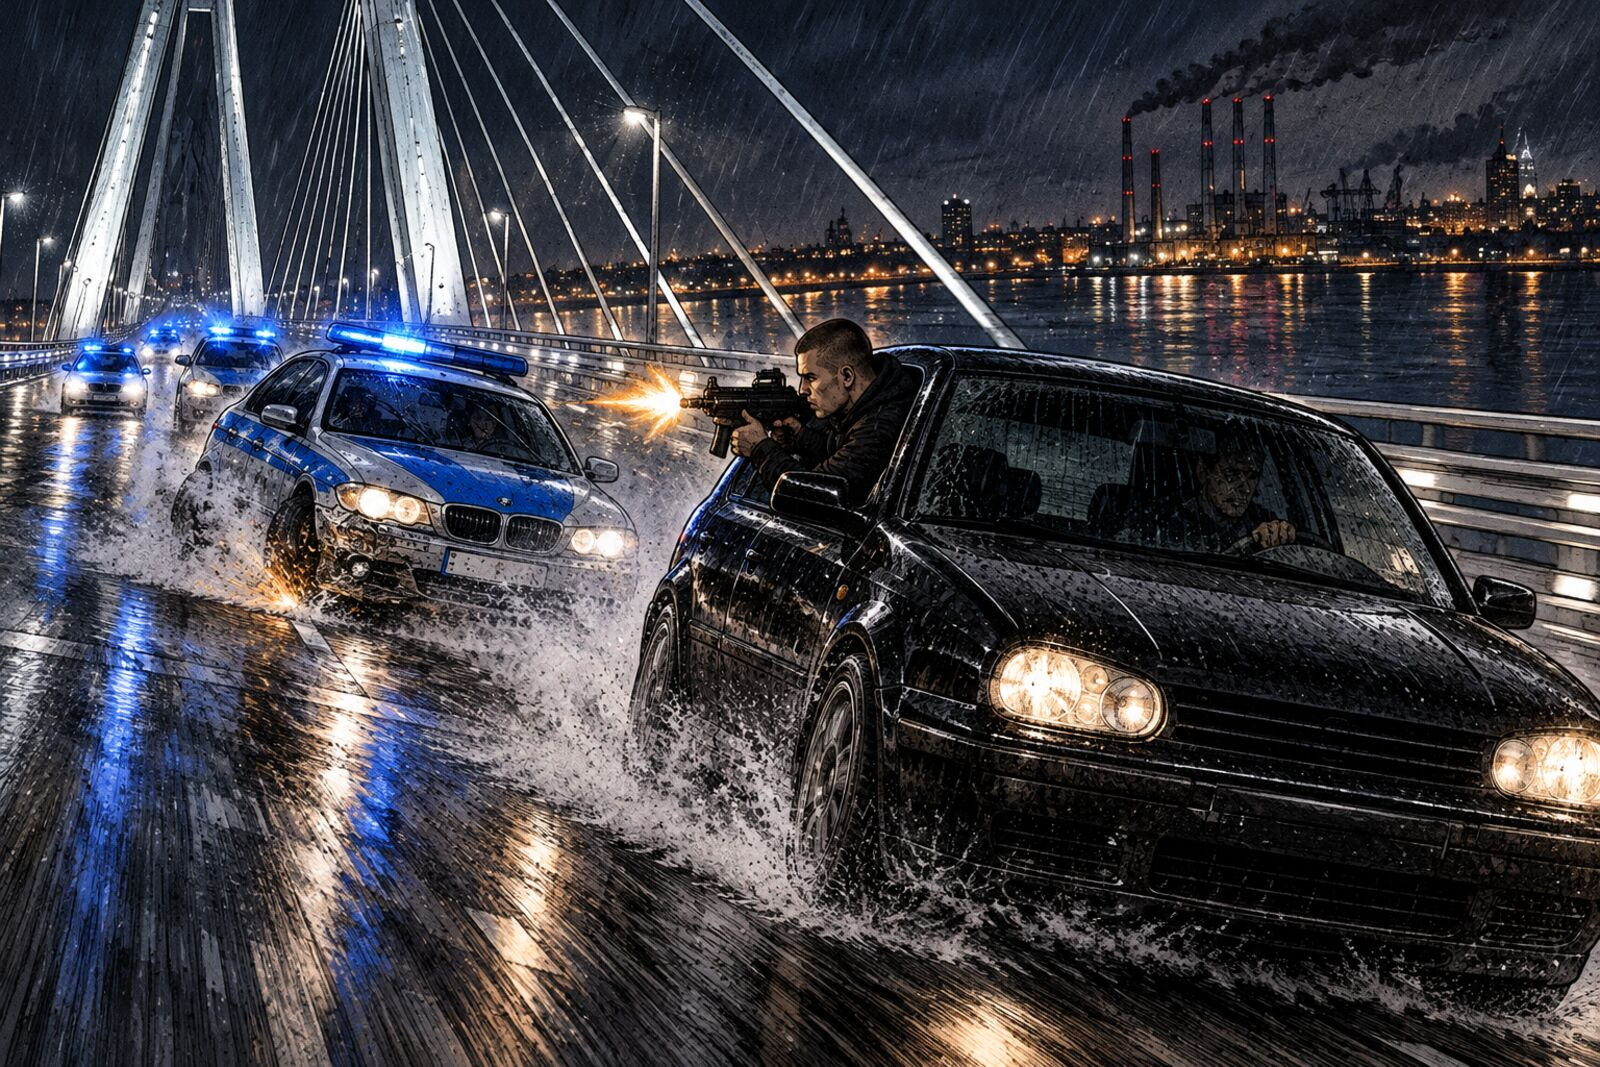
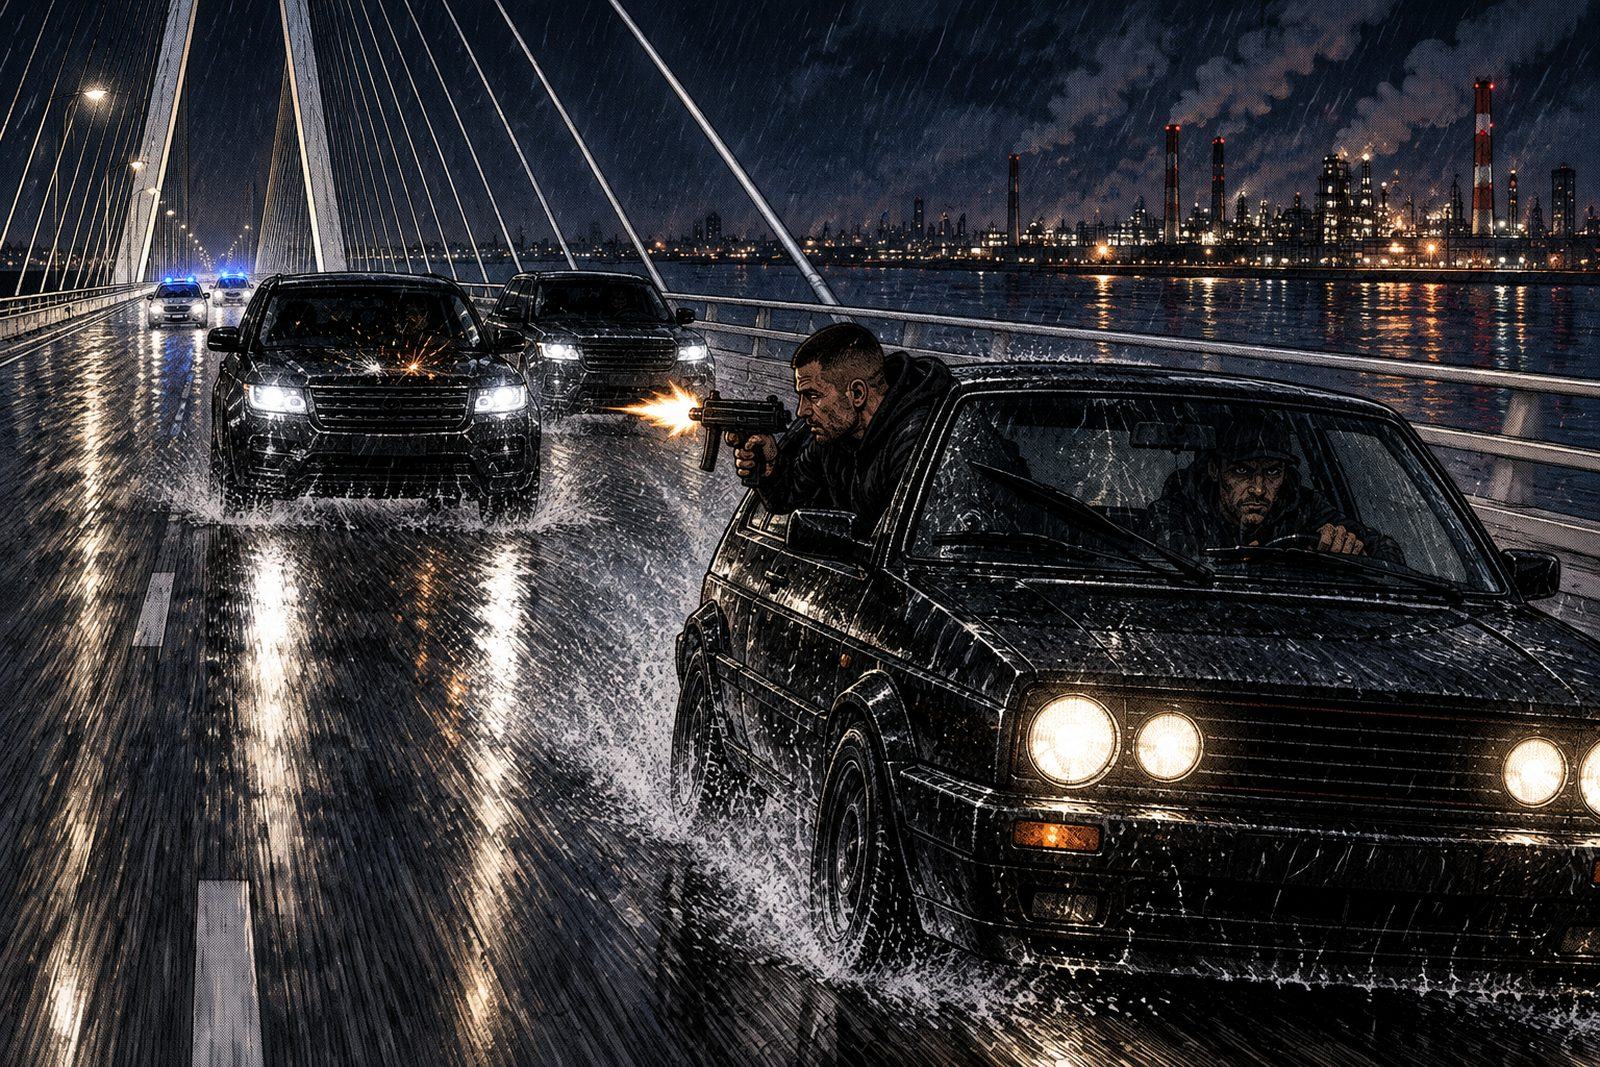
Redrawn bridge panel (shooting at gang SUVs, police far behind), drop one boss quip, art cache bust
Claude-Session: https://claude.ai/code/session_01Tt18V6mhpxc2nVgtq6weTV

diff --git a/public/index.html b/public/index.html
@@ -994,7 +994,7 @@ function pmove(p,dx,dy){const nx=p.x+dx,ny=p.y+dy,r=8;if(!p.down&&carAt(nx,ny,4)
 function say(p,arr,t){p.say=pick(arr);p.sayL=t||2.2}
 const QUIPS={shoot:['Ta-ta-ta, a je to!','Kulky zdarma, bereš?','Hele, mířím, nebo ne?','To je za tu předjížďku!','Pozdravuj pojišťovnu!','Mám ještě plnej zásobník!','Blinkr nepoužíváš, tak máš!','Ty vole, uhni!'],
  boom:['Ty vole, natočils to?','Bum! A je po káře.','To už nespravíš, kámo.','Šrotiště volá!','Pojišťovna brečí.','Grilovačka v Ústí!','Ještě že to nebyla moje.','Krásně to hoří, ne?','Tak to už STK neprojde.','Kdo to bude uklízet?'],
- boss:['A je po šéfovi!','Tak co, kdo je tu boss?','Obrněnej, ale blbej.','Tohle bude v novinách!']};
+ boss:['A je po šéfovi!','Tak co, kdo je tu boss?','Tohle bude v novinách!']};
 let quipCD=0;function quip(w,k){const p=w&&w.player;if(!p||quipCD>performance.now())return;quipCD=performance.now()+(k==='shoot'?7000:2600);p.say=pick(QUIPS[k]);p.sayL=2.4}
 
 /* ---- particles ---- */
@@ -1331,7 +1331,7 @@ function ambientWorld(){const w=newWorld({rain:true,dark:.74,civMax:10,pedMax:32
 
 /* ---------------- PROMO ---------------- */
 const ART=['keyart','street','heist','bridge','racestart','lucie','marek','kaja'];
-const artImg={};function preloadArt(){for(const k of ART){if(artImg[k])continue;const im=new Image();im.src='art/'+k+'.jpg';artImg[k]=im}}
+const artImg={};function preloadArt(){for(const k of ART){if(artImg[k])continue;const im=new Image();im.src='art/'+k+'.jpg?v=5';artImg[k]=im}}
 const PROMO=[
  {t:0,d:4.6,game:'street',txt:['ZORYX studio','uvádí']},
  {t:4.6,d:5.2,img:'keyart',kb:'in',txt:['Ústí nad Labem','Město andělů'],fx:'thunder'},
@@ -1353,7 +1353,7 @@ function cineCut(){const f=$('flash');f.classList.remove('go');void f.offsetWidt
 function setTxt(a,b){const el=$('promoTxt');el.innerHTML=a||b?`<div class="small">${a||''}</div><div>${b||''}</div>`:'';setTimeout(()=>el.children[0]&&el.children[0].classList.add('on'),250);setTimeout(()=>el.children[1]&&el.children[1].classList.add('on'),1000)}
 function promoShot(i){const w=promo.w,s=PROMO[i];cineCut();
   const A=$('ciA'),B=$('ciB'),card=$('card'),tc=$('titlecard');card.className='';card.innerHTML='';tc.classList.remove('on');
-  if(s.img){const cur=ciFlip?A:B,old=ciFlip?B:A;ciFlip^=1;cur.className='ci';cur.style.backgroundImage=`url(art/${s.img}.jpg)`;void cur.offsetWidth;cur.className='ci on kb-'+(s.kb||'in');old.classList.remove('on')}
+  if(s.img){const cur=ciFlip?A:B,old=ciFlip?B:A;ciFlip^=1;cur.className='ci';cur.style.backgroundImage=`url(art/${s.img}.jpg?v=5)`;void cur.offsetWidth;cur.className='ci on kb-'+(s.kb||'in');old.classList.remove('on')}
   else{A.classList.remove('on');B.classList.remove('on')}
   if(s.card){card.className='on '+s.side;card.innerHTML=`<div class="slab" style="background:${s.col}"></div><div class="pic" style="background-image:url(art/${s.card}.jpg)"></div><div class="nm"><b>${s.name}</b><i>${s.role}</i></div>`;setTxt('','');Snd.hit()}
   else if(s.title){A.className='ci on kb-in';A.style.backgroundImage='url(art/keyart.jpg)';B.classList.remove('on');tc.classList.add('on');setTxt('','')}
@@ -1485,7 +1485,7 @@ function comicScene(name){
   {const dy=(name==='plaza'||name==='plaza2'?21:19)*8*T;sc.y+=dy;for(const o of w.cars)o.y+=dy;for(const o of w.peds)o.y+=dy;for(const o of w.parts)o.y+=dy;for(const k of w.skids){k[1]+=dy;k[3]+=dy}}
   return{w,sc}}
 function renderPanel(){const el=$('scr-comic'),C=comic.C,P=C.panels[comic.i];
-  let h=`<div class="tag" style="margin-bottom:8px">${C.title}</div><div class="panel" id="panel">${P.art?`<div class="art" style="background-image:url(art/${P.art}.jpg?v=4)"></div>`:'<canvas id="pcv"></canvas>'}<div class="halftone"></div>`;
+  let h=`<div class="tag" style="margin-bottom:8px">${C.title}</div><div class="panel" id="panel">${P.art?`<div class="art" style="background-image:url(art/${P.art}.jpg?v=5)"></div>`:'<canvas id="pcv"></canvas>'}<div class="halftone"></div>`;
   if(P.who){if(P.who[0])h+=`<div class="inset l" style="background-image:url(art/${P.who[0]}.jpg)"></div>`;if(P.who[1])h+=`<div class="inset r" style="background-image:url(art/${P.who[1]}.jpg)"></div>`}
   if(P.cap)h+=`<div class="cap">${P.cap}</div>`;
   for(const b of P.bubs||[])h+=`<div class="bub ${b.shout?'shout':''}" style="left:${b.x}%;top:${b.y}%"><small>${WHO_NAME[b.w]}</small>${b.t}</div>`;
